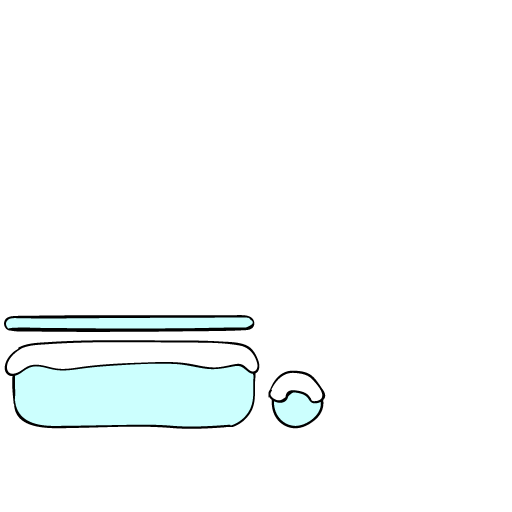
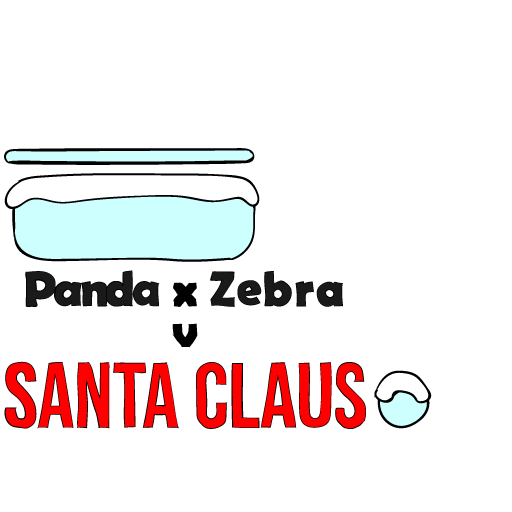
Added MenuScreen.

Changed region(s): [[0.0, 0.2812, 0.8438, 0.8438]]

diff --git a/core/src/com/ray3k/template/screens/MenuScreen.java b/core/src/com/ray3k/template/screens/MenuScreen.java
@@ -11,6 +11,7 @@ import com.badlogic.gdx.scenes.scene2d.actions.Actions;
 import com.badlogic.gdx.scenes.scene2d.ui.*;
 import com.badlogic.gdx.scenes.scene2d.utils.ChangeListener;
 import com.badlogic.gdx.utils.Scaling;
+import com.badlogic.gdx.utils.viewport.FitViewport;
 import com.badlogic.gdx.utils.viewport.ScreenViewport;
 import com.ray3k.template.Core;
 import com.ray3k.template.JamScreen;
@@ -22,7 +23,7 @@ public class MenuScreen extends JamScreen {
     private Stage stage;
     private Skin skin;
     private Core core;
-    private final static Color BG_COLOR = new Color(Color.BLACK);
+    private final static Color BG_COLOR = new Color(Color.WHITE);
     
     public MenuScreen(Action gameAction, Action optionsAction, Action creditsAction) {
         this.gameAction = gameAction;
@@ -35,7 +36,7 @@ public class MenuScreen extends JamScreen {
         core = Core.core;
         skin = core.skin;
         
-        stage = new Stage(new ScreenViewport(), core.batch);
+        stage = new Stage(new FitViewport(1024, 576), core.batch);
         Gdx.input.setInputProcessor(stage);
     
         Table root = new Table();
@@ -49,7 +50,7 @@ public class MenuScreen extends JamScreen {
         stage.addActor(fg);
         fg.addAction(Actions.sequence(Actions.fadeOut(.3f)));
     
-        Image image = new Image(skin, "libgdx-animation");
+        Image image = new Image(skin, "logo");
         image.setScaling(Scaling.none);
         root.add(image);
         
